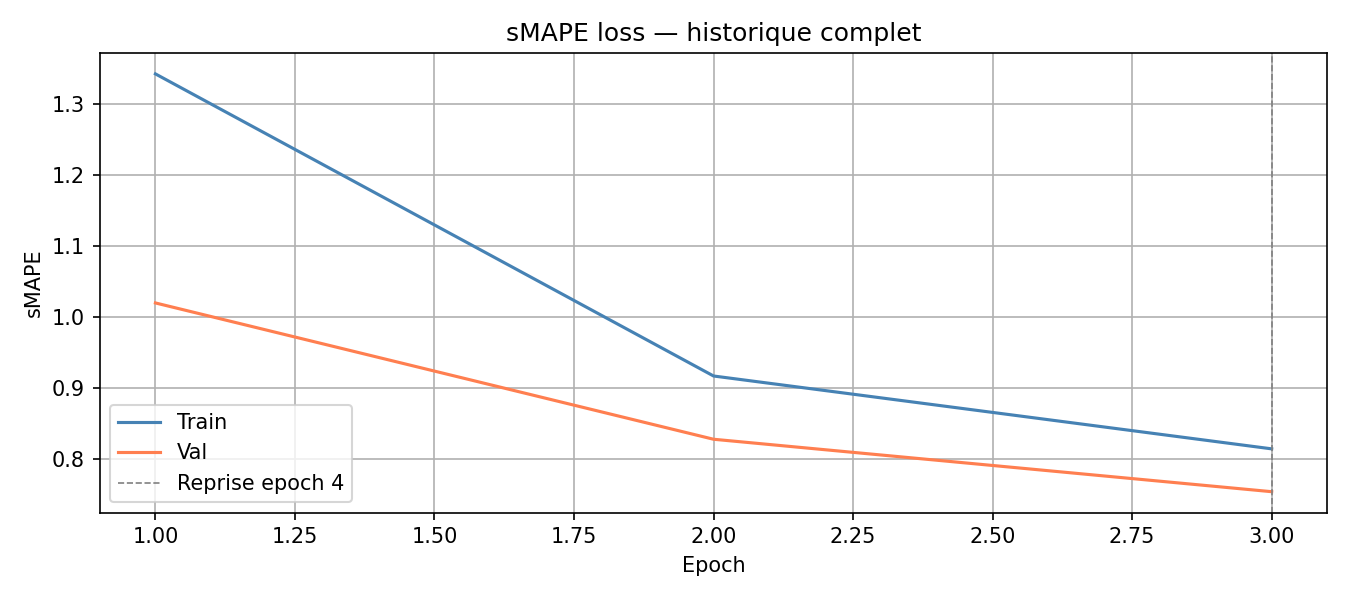
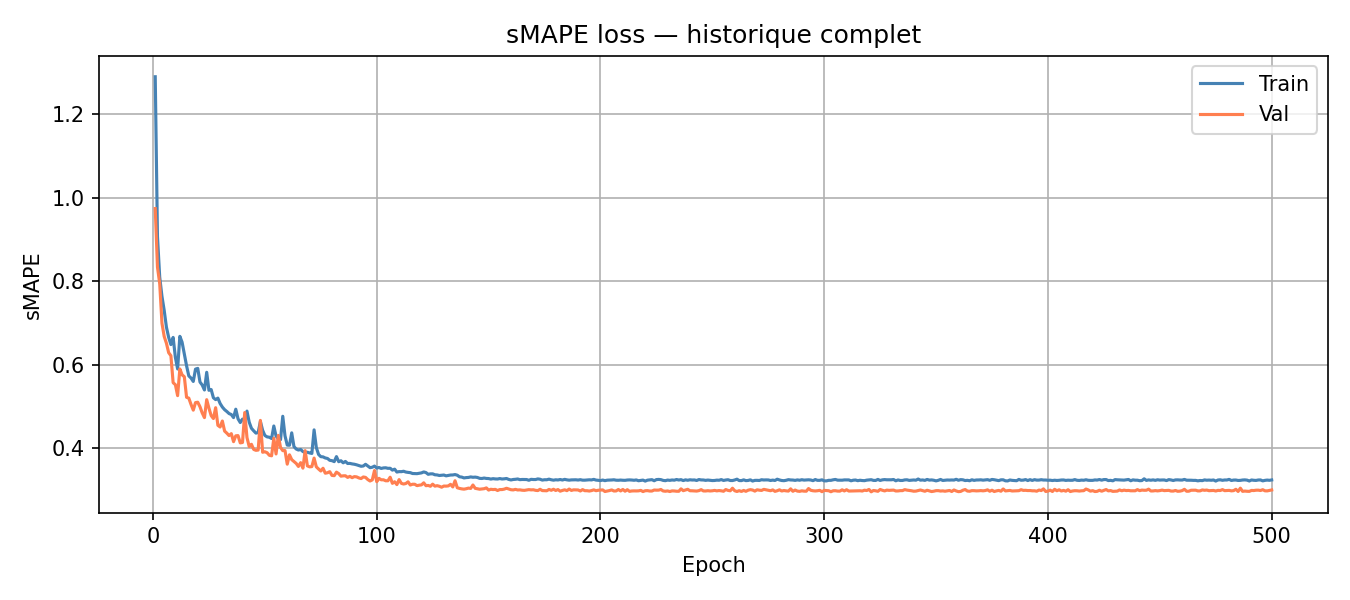
U-nets trained on macro problem

diff --git a/Software/OT_NN/TopOpt_process.py b/Software/OT_NN/TopOpt_process.py
@@ -1,14 +1,27 @@
 #%% Import libraries
 import sys
-sys.path.append(r'C:\Users\maxen\Documents\Stage\Software\OT_NN\U-net')
-sys.path.append(r'C:\Users\maxen\Documents\Stage\Software\OT_Software')
-sys.path.append(r'C:\Users\maxen\Documents\Stage\Software\OT_Functions')
+from pathlib import Path
+
+user      = 'server'   # 'laptop' ou 'server'
+name_file = 'dataset_macro'
+NETWORK='U-Net'
+
+
+
+if user == 'laptop':
+    BASE = Path(r'C:\Users\maxen\Documents\Stage')
+elif user == 'server':
+    BASE = Path(r'D:\Maxence\Stage-M1---UPV')
+
+
+sys.path.append(BASE / 'Software' / 'OT_NN' /NETWORK)
+sys.path.append(BASE / 'Software' / 'OT_Functions')
+sys.path.append(BASE / 'Software' / 'OT_Software')
 
 import torch
 import numpy as np
-from model import UNetTopo
-from dataset import Dataset_TopOpt, IterationDataset, IterationSample, load_mat
-from pathlib import Path
+from model import *
+from dataset import *
 import scipy.io
 from topology_utils import *
 
@@ -27,14 +40,14 @@ NGPpS = 9   # number of integration points 2D
 #%% Load model
 model = UNetTopo(nif=32, n_in=3, n_out=3, use_cbam=True)
 state_dict = torch.load(
-    r'C:\Users\maxen\Documents\Stage\Software\OT_NN\U-net\results\unet_topo_best.pth',
+    BASE/'Stage'/'Software'/'OT_NN'/NETWORK/'results'/'unet_topo_best.pth',
     map_location='cpu'
 )
 model.load_state_dict(state_dict)
 model.eval()
 
 #%% Load dataset
-data     = load_mat(r'C:\Users\maxen\Documents\Stage\HeavyFiles\data\dataset.mat')
+data     = load_mat(BASE/'HeavyFiles'/'data'/(name_file+'.mat'))
 ds_base  = Dataset_TopOpt(data)
 ds_iter  = IterationDataset(ds_base)
 
@@ -46,24 +59,24 @@ sample = IterationSample(ds_iter, IDX)
 
 # ── Start MATLAB engine ────────────────────────────────────────────
 eng = matlab.engine.start_matlab()
-eng.addpath(r'C:\Users\maxen\Documents\Stage\Software\OT_Functions')
-eng.addpath(r'C:\Users\maxen\Documents\Stage\Software\OT_Software')
+eng.addpath(BASE/'Software'/'OT_Functions')
+eng.addpath(BASE/'Software'/'OT_Software')
 
 # ── Load mesh and material matrix ──────────────────────────────────
-eng.eval("MeshData = ReadGMSH('C:\\Users\\maxen\\Documents\\Stage\\Software\\OT_Software\\Square.msh');", nargout=0)
+eng.eval("MeshData = ReadGMSH(BASE/'Software'/'OT_Software'/'Square.msh');", nargout=0)
 eng.eval("D = DHooks2D(1000, 0.3, 'Plane Stress');", nargout=0)
 
 # ── Load U-Net model ───────────────────────────────────────────────
 model = UNetTopo(nif=32, n_in=3, n_out=3, use_cbam=True)
 state_dict = torch.load(
-    r'C:\Users\maxen\Documents\Stage\Software\OT_NN\U-net\results\unet_topo_best.pth',
+    BASE/'Software'/'OT_NN'/'U-net'/'results'/'unet_topo_best.pth',
     map_location='cpu'
 )
 model.load_state_dict(state_dict)
 model.eval()
 
 # ── Load dataset and select initial sample ─────────────────────────
-data    = load_mat(r'C:\Users\maxen\Documents\Stage\HeavyFiles\data\dataset_test.mat')
+data    = load_mat(BASE/'HeavyFiles'/'data'/(name_file+'.mat'))
 ds_base = Dataset_TopOpt(data)
 ds_iter = IterationDataset(ds_base)
 sample  = IterationSample(ds_iter, idx=IDX)  # first iteration of first sample

diff --git a/Software/OT_NN/U-net/main.py b/Software/OT_NN/U-net/main.py
@@ -14,7 +14,7 @@ from evaluate import evaluate, visualize, visualize_error
 #%%  Configuration
 # ═══════════════════════════════════════════════════════════════════════════════
 
-user = 'laptop'  # 'laptop' ou 'server'
+user = 'server'  # 'laptop' ou 'server'
 
 name_file = 'dataset_macro'
 
@@ -23,6 +23,9 @@ if user == 'laptop':
     BASE = Path(r'C:\Users\maxen\Documents\Stage')
 elif user == 'server':
     BASE = Path(r'D:\Maxence\Stage-M1---UPV')
+else :
+    assert user==('laptop' or 'server'), 'unkown selected machine'
+
 
 DATA_PATH       = BASE / 'HeavyFiles' / 'data' / (name_file+'.mat')
 RESULTS_DIR     = BASE / 'HeavyFiles' / 'U-net' / 'results'
@@ -40,8 +43,8 @@ USE_CBAM    = True
 LR          = 1e-3
 EPS_SMAPE   = 1e-6
 
-RESUME = True
-EPOCHS = 0
+RESUME = False
+EPOCHS = 500
 
 #   Premier lancement   →  RESUME = False  /  EPOCHS = 50
 #   Reprendre           →  RESUME = True   /  EPOCHS = nombre d'epochs à AJOUTER

diff --git a/Software/OT_NN/BE_Unet/main.py b/Software/OT_NN/BE_Unet/main.py
@@ -13,7 +13,7 @@ from evaluate import evaluate, visualize, visualize_error
 #%%  Configuration
 # ═══════════════════════════════════════════════════════════════════════════════
 
-user      = 'laptop'   # 'laptop' ou 'server'
+user      = 'server'   # 'laptop' ou 'server'
 name_file = 'dataset_macro'
 
 if user == 'laptop':
@@ -42,7 +42,7 @@ LR          = 1e-3
 EPS_SMAPE   = 1e-6
 
 RESUME = False
-EPOCHS = 1
+EPOCHS = 500
 
 # ═══════════════════════════════════════════════════════════════════════════════
 #%%  Device